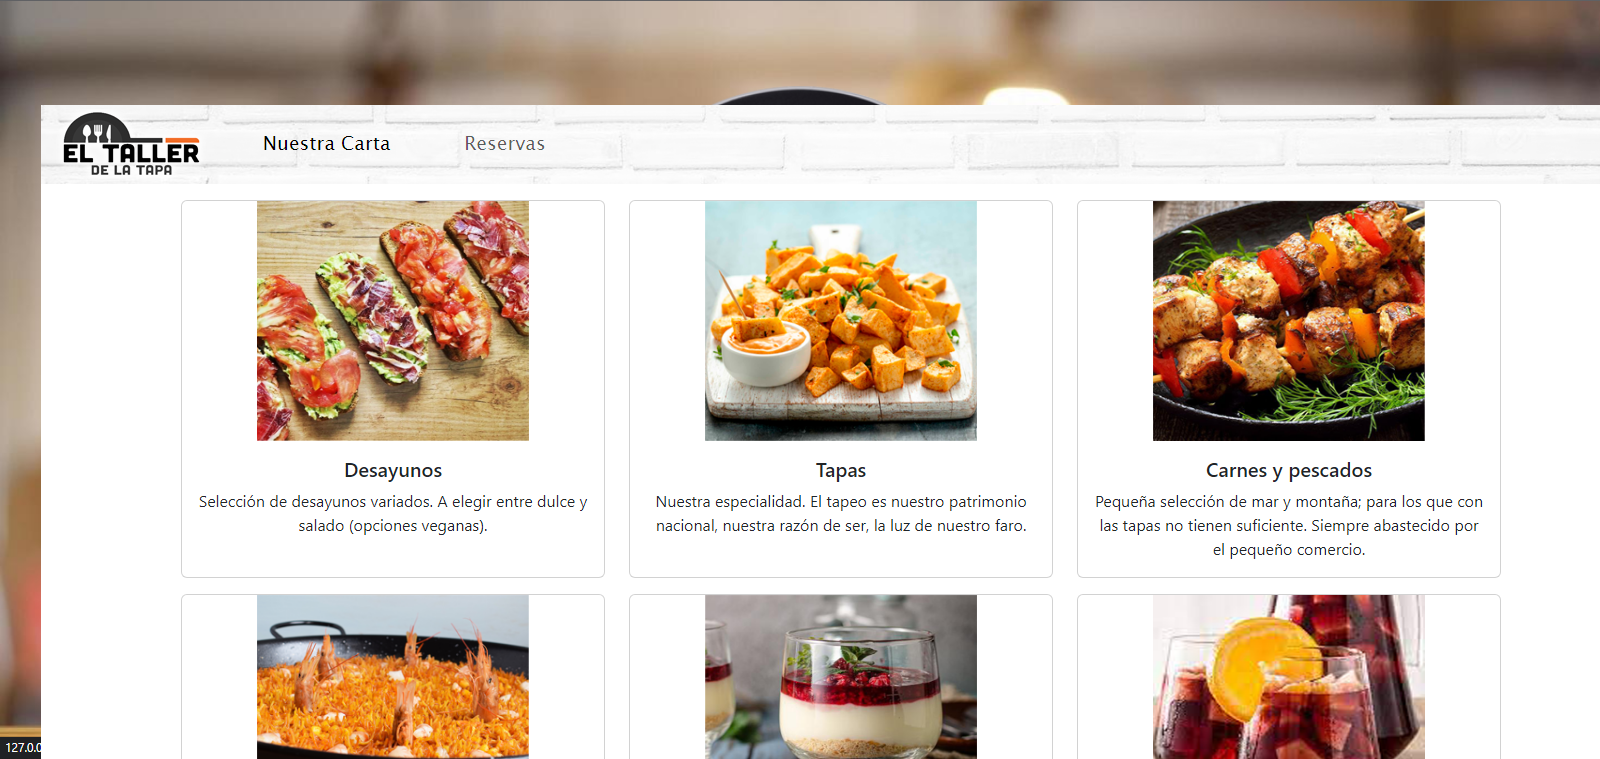
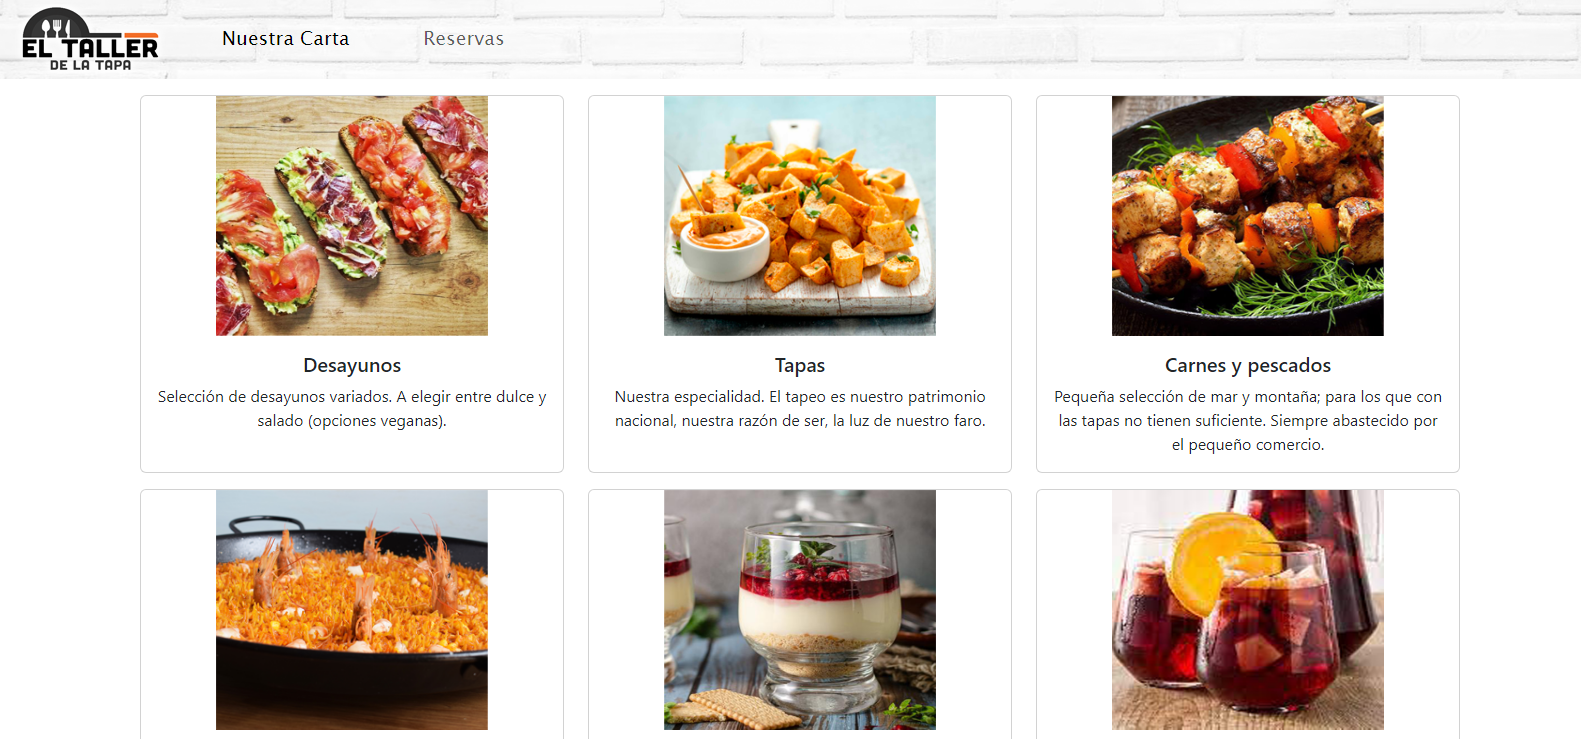
Fixed the CSS link and the index background image.

diff --git a/pages/porencargo.html b/pages/porencargo.html
@@ -37,44 +37,44 @@
     </nav>
   </div>
 
-<!-- CARDS with "ENCARGO" -->  
-  <div class="container p-0 mt-3">
+<!-- CARDS with "POR ENCARGO" -->  
+  <div class="container overflow-hidden p-0 mt-3">
     <div class="row mb-3 justify-content-around">
       <div class="col-lg-4 mb-3">
-        <a class="card d-flex h-100 letrasinefecto" href="../pages/desayuno.html">          
+        <div class="card d-flex h-100">          
           <img class="justify-content-start align-items-center img-fluid img-fluid1 plato" src="../img/porencargo/paellavalenciana.png" alt="Paella valenciana">
-          <div class="card-body text-center px-3">
-            <h5 class="card-title">Paella Valenciana</h5>
-            <p class="card-text">Paella receta valenciana. Que no te engañen mas, esta es la paella valenciana tan admirada. Arroz al punto de cocción con caldo hecho con el sofrito de sus mismos ingredientes.</p>
-          </div>
-        </a>
-      </div>
-      <div class="col-lg-4 mb-3">
-        <a class="card d-flex h-100 letrasinefecto" href="../pages/tapas.html">
-          <img class="justify-content-start align-items-center img-fluid img-fluid1 plato" src="../img/porencargo/arrozalhorno.png" alt="Arroz al horno">
           <div class="card-body text-center px-3">
             <h5 class="card-title">Arroz al Horno</h5>
             <p class="card-text">Arroz cocinado al horno con panceta, garbanzos, patata, ajos, longanizas y morcillas de cebolla.</p>
           </div>
-        </a>
+        </div>
       </div>
       <div class="col-lg-4 mb-3">
-        <a class="card d-flex h-100 letrasinefecto" href="../pages/carnesypescados.html">
+        <div class="card d-flex h-100">
+          <img class="justify-content-start align-items-center img-fluid img-fluid1 plato" src="../img/porencargo/arrozalhorno.png" alt="Arroz al horno">
+          <div class="card-body text-center px-3">
+            <h5 class="card-title">Paella Valenciana</h5>
+            <p class="card-text">Paella receta valenciana. Que no te engañen mas, esta es la paella valenciana tan admirada. Arroz al punto de cocción con caldo hecho con el sofrito de sus mismos ingredientes.</p>
+          </div>
+        </div>
+      </div>
+      <div class="col-lg-4 mb-3">
+        <div class="card d-flex h-100">
           <img class="justify-content-start align-items-center img-fluid img-fluid1 plato" src="../img/porencargo/fideua.png" alt="Fideuá">
           <div class="card-body text-center px-3">
             <h5 class="card-title">Fideuá</h5>
             <p class="card-text">Fideuá de fideo fino, hecha con el fondo de marisco cocido durante mas de 3 horas. La corona las cabezas de los gambones utilizados para su caldo.</p>
           </div>
-        </a>
+        </div>
       </div>
       <div class="col-lg-4 mb-3">
-        <a class="card d-flex h-100 letrasinefecto" href="../pages/porencargo.html">
+        <div class="card d-flex h-100">
           <img class="justify-content-start align-items-center img-fluid img-fluid1 plato" src="../img/porencargo/arrozconacelgas.png" alt="Arroz con acelgas">
           <div class="card-body text-center px-3">
             <h5 class="card-title">Arroz con Acelgas</h5>
             <p class="card-text">Receta familiar. Arroz caldoso de jamón, cebolla, acelgas y patatas. ¡Para chuparte los dedos!</p>
           </div>
-        </a>
+        </div>
       </div>
       <div class="col-lg-4 mb-3">
         <div class="card d-flex h-100">

diff --git a/pages/postres.html b/pages/postres.html
@@ -38,43 +38,43 @@
   </div>
 
 <!-- CARDS with "POSTRES" -->  
-  <div class="container p-0 mt-3">
+  <div class="container overflow-hidden p-0 mt-3">
     <div class="row mb-3 justify-content-around">
       <div class="col-lg-4 mb-3">
-        <a class="card d-flex h-100 letrasinefecto" href="../pages/desayuno.html">          
+        <div class="card d-flex h-100">         
           <img class="justify-content-start align-items-center img-fluid img-fluid1 plato" src="../img/postres/flan2sabores.png" alt="Flan dos sabores">
           <div class="card-body text-center px-3">
             <h5 class="card-title">Flan Dos Sabores</h5>
             <p class="card-text">Flan casero de dos sabores, vainilla y caramelo.</p>
           </div>
-        </a>
+        </div>
       </div>
       <div class="col-lg-4 mb-3">
-        <a class="card d-flex h-100 letrasinefecto" href="../pages/tapas.html">
+        <div class="card d-flex h-100">
           <img class="justify-content-start align-items-center img-fluid img-fluid1 plato" src="../img/postres/tartadequeso.png" alt="Tarta de queso">
           <div class="card-body text-center px-3">
             <h5 class="card-title">Tarta de Queso</h5>
             <p class="card-text">Tarta de queso servido en copa. Receta de la madre del Rey de la Tapa. Sirve tanto para postre como para merienda o desayuno.</p>
           </div>
-        </a>
+        </div>
       </div>
       <div class="col-lg-4 mb-3">
-        <a class="card d-flex h-100 letrasinefecto" href="../pages/carnesypescados.html">
+        <div class="card d-flex h-100">
           <img class="justify-content-start align-items-center img-fluid img-fluid1 plato" src="../img/postres/tartalabuela.png" alt="Tarta de la Abuela">
           <div class="card-body text-center px-3">
             <h5 class="card-title">Tarta de la Abuela</h5>
             <p class="card-text">Receta de la abuela del Rey de la Tapa. Construcción en capas intercalando un fondo de galleta y mantequilla, toffee, galleta, yema, galleta y crema pastelera.</p>
           </div>
-        </a>
+        </div>
       </div>
       <div class="col-lg-4 mb-3">
-        <a class="card d-flex h-100 letrasinefecto" href="../pages/porencargo.html">
+        <div class="card d-flex h-100">
           <img class="justify-content-start align-items-center img-fluid img-fluid1 plato" src="../img/postres/tiramisu.png" alt="Tiramisú">
           <div class="card-body text-center px-3">
             <h5 class="card-title">Tiramisú</h5>
             <p class="card-text">Infalible elección para toda la familia. Esponjoso a la par que dulce tiramisú espolvoreado con café deshidratado y cacao.</p>
           </div>
-        </a>
+        </div>
       </div>
       <div class="col-lg-4 mb-3">
         <div class="card d-flex h-100">

diff --git a/index.html b/index.html
@@ -8,22 +8,23 @@
     <!-- LINK FROM BOOTSTRAP  -->
     <link href="https://cdn.jsdelivr.net/npm/bootstrap@5.3.0-alpha3/dist/css/bootstrap.min.css" rel="stylesheet" integrity="sha384-KK94CHFLLe+nY2dmCWGMq91rCGa5gtU4mk92HdvYe+M/SXH301p5ILy+dN9+nJOZ" crossorigin="anonymous">
     <!-- LINK FROM MY CSS STYLES SHEET -->
-    <link rel="stylesheet" href="../css/styles.css">
+    <link rel="stylesheet" href="./css/styles.css">
+    
 
 
 </head>
 <body>
 <!-- CENTER BOX (LINKED IMG) OF INDEX -->
-  <div class="container-fluid center-box background-index img-fluid">
-    <div class="row central-row d-flex justify-content-center align-items-center">
-      <div class="col-4 col-lg-12 d-flex justify-content-center align-items-center logo-plato img-fluid">
+  <div class="container-fluid overflow-hidden background-index img-fluid m-0 p-0">
+    <div class="row d-flex justify-content-center align-items-center m-0 p-0">
+      <div class="col-3 col-lg-10 d-flex justify-content-center align-items-center logo-plato img-fluid">
           <a href="./pages/carta.html"><img class="presentacion-img" src="./img/platorte.png" alt="plato-presentacion"></a>
       </div>
-    </div>
-    <div class="col-12 info-text d-flex flex-column">
-      <p class="text-footer text-center">Av. de Montiel 28, Benaguacil, Valencia.</p>
-      <p class="text-footer text-center">Horario: de Martes a Domingo de 09h a 00h</p>
-      <p class="text-footer text-center">Teléfono de contacto: 962567678</p>
+      <div class="col-12 info-text d-flex flex-column">
+        <p class="text-footer text-center">Av. de Montiel 28, Benaguacil, Valencia.</p>
+        <p class="text-footer text-center">Horario: de Martes a Domingo de 09h a 00h</p>
+        <p class="text-footer text-center">Teléfono de contacto: 962567678</p>
+      </div>
     </div>
   </div>
   

diff --git a/css/styles.css b/css/styles.css
@@ -1,7 +1,6 @@
 body {
     height: 100vh;
     width: 100vw;
-    margin: 0;
     padding: 0;
     overflow-x: hidden;
 }
@@ -32,6 +31,17 @@ body {
     margin: auto;
     width: 17em;
 }
+
+/*FUERZO CON ESTE ESTILO QUE DESAPAREZCA EL SCROLL HORIZONTAL EN NEXUS 5, PERO CON ESTO O SIN ESTO, HACE EXACTAMENTE LO MISMO.
+EL SCROLL APARECE AL ACTIVAR LA "VISTA INSPECCIONAR", UNA VEZ CARGADA LA VISTA, LE DOY A RECARGAR PÁGINA Y DESAPARECE EL SCROLL. 
+                                            SIGO SIN ENTENDER POR QUE.*/
+
+                                            @media (max-width: 767px) {
+                                                .container-fluid {
+                                                    overflow-x: hidden;
+                                                }
+                                            }
+
 .plato {
     height: 15em
 }
@@ -46,11 +56,10 @@ body {
     transform: scale(1.1);
 }
 .background-index {
-    background-image: url(./img/fondo-index.jpg);
+    background-image: url(../img/fondo-index.jpg);
     background-size: cover;
-    background-attachment: fixed;
-    height: 100%;
-    width: 100%;
+    height: 120%;
+    width: 120%;
 }
 .info-text {
     font-size: 1.3em;
@@ -61,11 +70,8 @@ body {
 .letrasinefecto{
     text-decoration: none;
 }
-.overflow {
-    overflow-y: hidden;
-    overflow-x: hidden;
-}
-/*reservas styles*/
+
+/*RESERVAS STYLES*/
 
 .reservasbox {
     background-color: rgba(255, 255, 255, 0.507);

diff --git a/pages/tapas.html b/pages/tapas.html
@@ -16,7 +16,7 @@
 <!-- NAVBAR -->
   <div class="container-fluid m-0 p-0">
     <nav class="navbar navbar-expand-lg navbar1 m-0 p-0">
-      <div class="container-fluid ">
+      <div class="container-fluid">
         <a class="navbar-brand" href="../index.html">
           <img class="logo-navbar logo-navbar1" src="../img/logo-taller-de-la-tapa3.png" alt="logo-taller-de-la-tapa">
         </a>
@@ -38,7 +38,7 @@
   </div>
 
 <!-- CARDS with "TAPAS" -->  
-  <div class="container p-0 mt-3">
+  <div class="container overflow-hidden p-0 mt-3">
     <div class="row mb-3 justify-content-around">
       <div class="col-lg-3 mb-3">
         <div class="card mb-3 d-flex h-100">

diff --git a/pages/reservaok.html b/pages/reservaok.html
@@ -38,7 +38,7 @@
   </div>
 
 <!-- "RESERVAS" -->
-<div class="container-fluid background-index">
+<div class="container-fluid background-index overflow-hidden m-0">
     <div class="row justify-content-center">
         <div class="col col-10 col-sm-8 col-lg-6 form-container confirmbox">
             <div class="box-reservation">

diff --git a/pages/carta.html b/pages/carta.html
@@ -38,7 +38,7 @@
   </div>
 
 <!-- CARDS with "CARTA" -->  
-  <div class="container p-0 mt-3">
+  <div class="container overflow-hidden p-0 mt-3">
     <div class="row mb-3 justify-content-around">
       <div class="col-lg-4 mb-3">
         <a class="card d-flex h-100 letrasinefecto" href="../pages/desayuno.html">          

diff --git a/pages/reservas.html b/pages/reservas.html
@@ -38,7 +38,7 @@
   </div>
 
 <!-- "RESERVAS" -->
-<div class="container-fluid background-index">
+<div class="container-fluid background-index overflow-hidden">
   <div class="row justify-content-center">
       <div class="col col-10 col-sm-8 col-lg-6">
           <div class="mt-5 reservasbox">

diff --git a/pages/desayuno.html b/pages/desayuno.html
@@ -38,7 +38,7 @@
   </div>
 
 <!-- CARDS with "DESAYUNO" -->  
-  <div class="container p-0 mt-3">
+  <div class="container overflow-hidden p-0 mt-3">
     <div class="row mb-3 justify-content-around">
       <div class="col-lg-4 mb-3">
         <div class="card mb-3 d-flex h-100">

diff --git a/pages/carnesypescados.html b/pages/carnesypescados.html
@@ -38,7 +38,7 @@
   </div>
 
 <!-- CARDS with "CARNES Y PESCADOS" -->  
-<div class="container p-0 mt-3">
+<div class="container overflow-hidden p-0 mt-3">
   <div class="row mb-3 justify-content-around">
     <div class="col-lg-4 mb-3">
       <div class="card mb-3 d-flex h-100">

diff --git a/pages/bebidas.html b/pages/bebidas.html
@@ -38,7 +38,7 @@
   </div>
 
 <!-- CARDS with "BEBIDAS"-->  
-  <div class="container p-0 mt-3">
+  <div class="container overflow-hidden p-0 mt-3">
     <div class="row mb-3 justify-content-around">
       <div class="col-lg-4 mb-3">
         <div class="card mb-3 d-flex h-100">

diff --git a/README.md b/README.md
@@ -1,22 +1,20 @@
 <center>
 
-# :hamburger::potato:<u> <font color="orange"> Rte. El Taller de la Tapa </font> </u>:meat_on_bone:	:cheese:
+# :hamburger::potato:<font color="orange"><u>Rte. El Taller de la Tapa</font></u>:meat_on_bone::cheese:
 
 
 
 ## Explicación del proyecto
 
 Es un restaurante real, al que conozco al dueño y a pesar de su calidad, no tiene pagina web propia.
-Pensé que esto sería una manera divertida de aprender a utilizar bootstrap, aunque he de reconocer que al principio me ha costado bastante hacerme con las sintaxis en el html. GeeksHubs nos requiere la web de un restaurante que sea completamente responsive.
+Pensé que esto sería una manera divertida de aprender a utilizar bootstrap, aunque he de reconocer que al principio me ha costado bastante hacerme con las sintaxis en el html. GeeksHubs nos requiere la web de un restaurante que sea completamente "responsive".
 
 ### Cómo se hizo
 
 En el desarrollo de la web se han necesitado: un index.HTML que hace la estructura de la página inicial o de bienvenida. Un .hmtl por cada una de las secciones de la web como son: "Reservas, Desayunos, Tapas, Postres, etc. Ha sido necesaria la integración de stylesheets de css propia para darle el formato específico a ciertos elementos. Además de los css específicos y los complementos de Bootstrap y el linkeo de javascript; Para lograr una web completamente responsive. Cada una de las páginas excetuando el index contienen una navbar con links que nos redirigen a las paginas de la carta y reservas.
 
 <p align="center">
-<img src="https://raw.githubusercontent.com/RedkarRiv/Rest_Project/master/img/tecnologias.jpg"  width="" height="100"></p>
-
-<img src="https://raw.githubusercontent.com/RompeTecla/proyecto02WebRestaurante/main/img/imreadme/tecnologias.html"  width="" height="100"></p>
+<img src="https://raw.githubusercontent.com/RompeTecla/proyecto02WebRestaurante/master/img/imgreadme/tecnologias.jpg"  width="" height="100"></p>
 
 
 La estructura de la página se ha realizado con elementos de Bootstrap y clases afines para evitar conflictos durante la ejecución y mejorar la escalabilidad. Solo se ha aplicado clases css propias en los casos en los que era imperativo usarlo.
@@ -25,6 +23,9 @@ La estructura de la página se ha realizado con elementos de Bootstrap y clases 
 
 Inicialmente nos encontraremos con una web en forma de "bienvenida" con un plato a modo de botón y la dirección del local en el inferior de la página. Botón que al pasar por encima el puntero hace un efecto de hover transform y al hacer click en el, te redirige a la página de "la carta"
 
+<img src="https://raw.githubusercontent.com/RompeTecla/proyecto02WebRestaurante/master/img/imgreadme/paginaprincipal.png"  width="" height="280">
+<p align="center">
+<img src="https://raw.githubusercontent.com/RompeTecla/proyecto02WebRestaurante/master/img/imgreadme/paginacarta.png"  width="" height="280"></p>
 
 
 ### Errores conocidos
